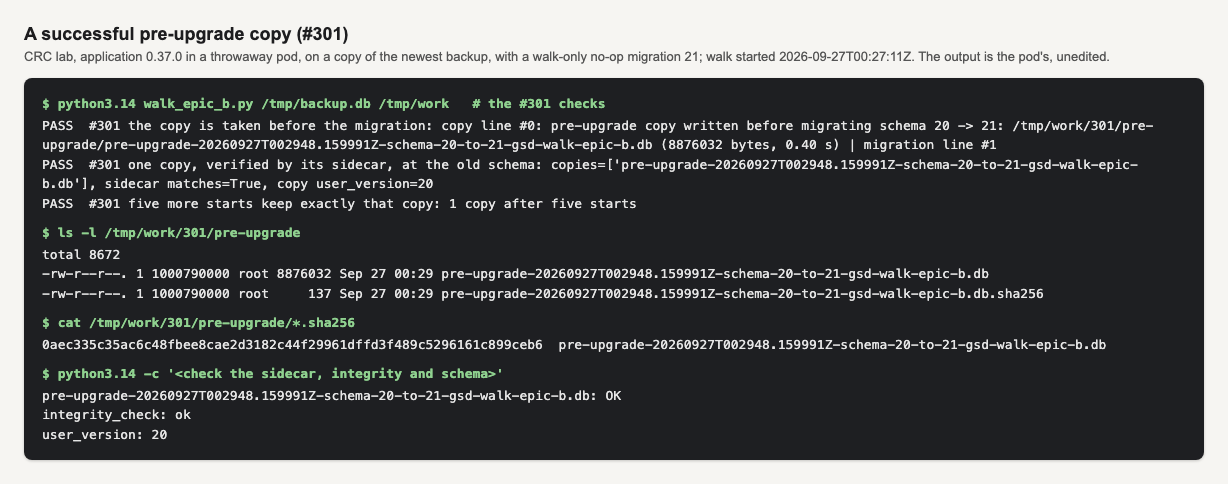
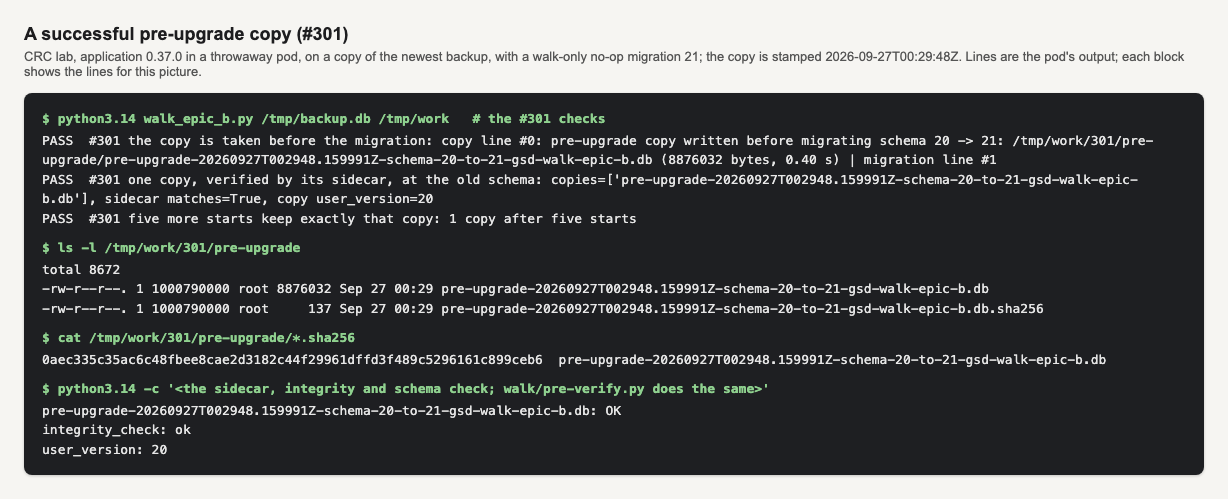
reports + runbook: the reviews of #412 — the deploy was Argo's auto-sync, not the gate; every fact recorded as a file; the runbook labels which pod each picture is, gives working commands and the tested restore recipe; the walk script fails cleanly

Changed region(s): [[0.0, 0.031, 0.9902, 0.9298]]

diff --git a/reports/2026-09-26_epic-b-release/walk/render2.py b/reports/2026-09-26_epic-b-release/walk/render2.py
@@ -6,11 +6,11 @@ walk = rd("walk.out")
 pick = lambda *keys: "\n".join(l for l in walk.splitlines() if l.startswith(("PASS", "FAIL")) and any(k in l for k in keys))
 render(str(E / "backup-pre-upgrade-copy-success.png"), "A successful pre-upgrade copy (#301)",
        "CRC lab, application 0.37.0 in a throwaway pod, on a copy of the newest backup, with a walk-only no-op migration 21; "
-       f"walk started {rd('walk-started.txt').strip()}. The output is the pod's, unedited.",
+       "the copy is stamped 2026-09-27T00:29:48Z. Lines are the pod's output; each block shows the lines for this picture.",
        [("python3.14 walk_epic_b.py /tmp/backup.db /tmp/work   # the #301 checks", pick("#301")),
         ("ls -l /tmp/work/301/pre-upgrade", rd("pre-ls.txt")),
         ("cat /tmp/work/301/pre-upgrade/*.sha256", rd("pre-sidecar.txt")),
-        ("python3.14 -c '<check the sidecar, integrity and schema>'", rd("pre-verify.txt"))])
+        ("python3.14 -c '<the sidecar, integrity and schema check; walk/pre-verify.py does the same>'", rd("pre-verify.txt"))])
 render(str(E / "backup-restore-check-success.png"), "A backup proven restorable (R1–R5)",
        "CRC lab, application 0.37.0 in a throwaway pod, on byte-verified copies (sha256 matched) of "
        f"{pathlib.Path(rd('backup-name.txt').strip()).name} and of #301's copy. The live database was never touched.",

diff --git a/reports/2026-09-26_epic-b-release/walk/walk_epic_b.py b/reports/2026-09-26_epic-b-release/walk/walk_epic_b.py
@@ -118,6 +118,9 @@ def restorable(label: str, db: Path) -> None:
     group = c.execute(f"SELECT cluster_id, group_name, COUNT(*) n FROM membership_event WHERE cluster_id IN ({marks}) "
                       "GROUP BY 1, 2 HAVING n BETWEEN 2 AND 100 ORDER BY n DESC LIMIT 1", sorted(clusters)).fetchone()
     c.close()
+    if group is None:
+        check(f"{label} R4 the app serves it", False, f"no group on the {len(clusters)} enabled clusters has 2-100 stored changes")
+        return
     configured = [ClusterConfig(i, u, token_env="WALK_UNUSED") for i, u in enabled]
     with TestClient(build_app(Settings(db_path=str(db), clusters=configured, oauth_proxy_enabled=False),
                               run_poller=False)) as client:

diff --git a/reports/2026-09-26_epic-b-release/walk/pre-verify.py b/reports/2026-09-26_epic-b-release/walk/pre-verify.py
@@ -1,0 +1,12 @@
+"""Check each pre-upgrade copy in a directory against its .sha256 sidecar, then its integrity and schema.
+
+    python3.14 pre-verify.py /data/pre-upgrade        (or a walk's /tmp/work/301/pre-upgrade)
+"""
+import hashlib, pathlib, sqlite3, sys
+for side in sorted(pathlib.Path(sys.argv[1]).glob("*.db.sha256")):
+    want, name = side.read_text().split()
+    db = side.with_name(name)
+    print(name + ":", "OK" if hashlib.sha256(db.read_bytes()).hexdigest() == want else "FAILED")
+    c = sqlite3.connect(f"file:{db}?immutable=1", uri=True)
+    print("integrity_check:", c.execute("PRAGMA integrity_check").fetchone()[0])
+    print("user_version:", c.execute("PRAGMA user_version").fetchone()[0])

diff --git a/reports/2026-09-26_epic-b-release/README.md b/reports/2026-09-26_epic-b-release/README.md
@@ -1,44 +1,68 @@
-# Epic B (#382) released and deployed — application 0.37.0, chart 0.58.5, 2026-09-27
+# Epic B (#382) released and deployed — application 0.37.0, chart 0.58.5 (2026-09-27 UTC)
 
-## The release and the deploy gate
+## The release, the image gate, and what actually deployed it
 
 - **Release PR #409:** merge `b087c78f80b44be68bb40a0c0b44c71b53b069e7`, cut with `prepare-release.py --app 0.37.0`.
-- **The gate before the deploy** (`walk/gate.txt`):
-  - `publish.yml` succeeded (run 36281230543).
-  - quay's `:0.37.0` resolves to the same digest as the immutable `:0.37.0-b087c78f80` for both images: dashboard
-    `sha256:62e231178a3a…`, report `sha256:4715d4be2331…`.
-  - `helm.yaml` succeeded, and chart 0.58.5 was published at 00:10:01Z.
-  - Why the gate exists: before this release, `:0.37.0` was a stale chart-version label on an application 0.24.0
-    image (#410).
-- **The deploy:** `release-crc.sh --argocd main`. Argo CD was Synced/Healthy; the deployment ran chart
-  `group-sync-dashboard-0.58.5` with image `…:0.37.0`, and `/api/version` in the pod read `"version":"0.37.0",
-  "commit":"b087c78f80"`.
-  - The script exited 1 because #411 merged during the sync. Argo followed `main` to `cbe828b`, which contains
-    `b087c78`, and the script's wait for the exact `b087c78` revision timed out (`walk/release-tail.log`).
-  - #411 changes `fleetlogin.py`, a spec and the changelog. None of those is in the published 0.37.0 image.
+- **The image gate** (`walk/gate.txt`, `walk/workflow-times.txt`):
+  - `publish.yml` (run 36281230543) ran 00:01:34 → 00:04:19Z.
+  - quay's `:0.37.0` then equals the immutable `:0.37.0-b087c78f80` for both images: dashboard `sha256:62e231178a3a…`,
+    report `sha256:4715d4be2331…`.
+  - `helm.yaml` ran 00:01:34 → 00:10:12Z and published chart 0.58.5.
+- **The deploy was Argo CD's own auto-sync, not the script** (`walk/argo-history.txt`, `walk/replicasets.txt`,
+  `walk/deploy.txt`):
+  - The Application has `syncPolicy.automated: {prune: true, selfHeal: true}` and `targetRevision: main`.
+  - It deployed `b087c78` at 00:05:54–00:06:11Z, and the 0.37.0 ReplicaSets were created at 00:06:12Z. That was
+    95 s after `publish.yml` finished, and **before the gate above was checked**.
+  - `release-crc.sh --argocd main`, started at 00:11:30Z, found the release already deployed. Every line of
+    `walk/release-tail.log` reads "status is for the previous spec". It exited 1 because its wait for the exact
+    `b087c78` revision timed out: #411 merged at 00:20:14Z (`cbe828b`, which contains `b087c78`), and Argo followed
+    `main`.
+  - **The images were ready in time by luck of timing, not by design.** Before this release, quay's `:0.37.0` was a
+    stale label on an application 0.24.0 image. The measured race and the fix are #410.
+- **What runs** (`walk/api-version.txt`, `walk/deploy.txt`): chart `group-sync-dashboard-0.58.5`, image `…:0.37.0` at
+  `sha256:62e231178a3a…`, and `/api/version` reads `"version":"0.37.0","commit":"b087c78f80"`.
 - **The PVC UIDs** are the same before the deploy and after the walk (`walk/pvc-before.txt`, `walk/pvc-after-walk.txt`).
 
 ## The checks: 13 of 13 passed (`walk/walk.out`)
 
-The released image, pinned by digest, ran in a throwaway pod (`gsd-walk-epic-b`, deleted afterwards) with no volume.
-It ran against a copy of the newest six-hourly backup, `gsd-20260927T000637.303159Z.db`; the copy's sha256 matched
-the source's (`b8c87250…`). The script is `walk/walk_epic_b.py`.
+The released image, pinned by digest, ran in a throwaway pod with no volume.
+- It ran against a copy of the newest six-hourly backup, `gsd-20260927T000637.303159Z.db`, whose sha256 matched the
+  source's (`walk/backup-sha.txt`).
+- The copy is stamped 00:29:48Z. The first attempt at the pod failed, because the image has no `sleep`; it was
+  recreated with a Python wait.
+- The script is `walk/walk_epic_b.py`. The recipe in `docs/RUNBOOK_backup_restore.md` was then run verbatim on the
+  lab and also gave 13 of 13.
 
 | Check | Result |
 |---|---|
-| #305: a copy set to schema 21 | refused: "database schema 21 is newer than this dashboard understands (20) …"; the file is byte-identical |
-| #301: a copy opened with a walk-only no-op migration 21 | the copy line comes before the migration line; one copy (8,876,032 bytes, 0.40 s), its sidecar matches, `user_version` 20; five more starts keep exactly that copy |
-| R1–R4 on the backup | `integrity_check` ok at schema 20; opened with no migration and no copy; the five tables' counts equal before and after; `/healthz` 200, `/api/clusters` serves the 6 enabled clusters, and a group serves its 8 stored changes |
-| R5 on #301's copy | the same four checks pass |
-| R6 the live side | the walk pod had no volume; the live `gsd.db-wal` mtime moved from 1790469037 to 1790469096 across a poll (`walk/live-wal-*.txt`), so the dashboard kept writing; `/data` holds no `pre-upgrade/`, which is right for a database already at the release's schema |
+| #305: a copy set to schema 21 | Refused: "database schema 21 is newer than this dashboard understands (20) …". The file is byte-identical. |
+| #301: a copy opened with a walk-only no-op migration 21 | The copy line comes before the migration line: one copy, 8,876,032 bytes, in 0.40 s. Its sidecar matches, and its `user_version` is 20. |
+| R1–R4 on the backup | `integrity_check` is ok at schema 20. It opens with no migration and no copy. The five tables' counts are equal before and after. `/healthz` returns 200, and a group serves all 8 of its stored changes. |
+| R5 on #301's copy | The same four checks pass. |
 
-The operator chose to prove #301 on a copy rather than by a live upgrade and restore (#301's amended Definition of
-Done). The live rollback stays with #302.
+**What these checks do not prove** (OB1-lite's review):
+- **`/api/clusters` equal to the enabled rows holds by construction.** The configured set is read from the copy, and
+  `is_served` means configured and enabled. The group check is the real serving test: it reads the stored rows through
+  the endpoint, `limit=100`.
+- **"Five more starts keep that copy" does not exercise the not-taken-again guard.** After the first start the copy is
+  at schema 21, so no copy is attempted. That guard is covered by `tests/test_pre_upgrade_copy.py`.
+- **Not tested:**
+  - the §4 restore onto `/data` (permissions, removing `-wal` and `-shm`);
+  - the chart's real configuration (tokens, the oauth proxy, view restrictions);
+  - the poller resuming after a restore.
+  The live rollback is #302.
+- **The live side is untouched by construction, not by measurement.** The walk pod mounted no volume, and the script
+  writes only under its work directory.
+  - The WAL readings in `walk/live-wal-*.txt` were taken after the walk pod was deleted. They show that the live
+    dashboard kept writing, not that the walk left it alone.
+  - `/data` has no `pre-upgrade/` (`walk/data-ls.txt`), which is right for a database already at the release's
+    schema.
+
+The operator chose to prove #301 on a copy, not by a live upgrade and restore (#301's amended Definition of Done).
 
 ## The three screenshots
 
-They are in `docs/RUNBOOK_backup_restore.md` ("What a successful backup looks like") and under `docs/screenshots/`.
-Each is rendered from real output:
-
+They are in `docs/RUNBOOK_backup_restore.md`, in "What a successful backup looks like", with the commands for each,
+and under `docs/screenshots/`. Each picture shows real output; lines not relevant to it are left out.
 - **The six-hourly backup:** captured at 23:02:25Z (`capture/`, `capture/render.py`).
-- **The pre-upgrade copy and the restore check:** from this walk (`walk/render2.py`).
+- **The pre-upgrade copy and the restore check:** from this walk (`walk/render2.py`, `walk/pre-verify.py`).

diff --git a/docs/RUNBOOK_backup_restore.md b/docs/RUNBOOK_backup_restore.md
@@ -23,12 +23,16 @@ NS=group-sync; REL=group-sync-dashboard
 
 ## What a successful backup looks like
 
-Three pictures from the CRC lab (`reports/2026-09-26_epic-b-release/`). Each is the pod's own output, unedited,
-rendered from the commands shown in it. If yours looks like these, the copy is good.
+Three pictures from the CRC lab (`reports/2026-09-26_epic-b-release/`). The first is the live dashboard pod. The second
+and third come from a throwaway pod that worked on *copies* of a backup, not from the dashboard pod. Each shows the
+pod's own output. The commands are below each picture, and lines not relevant to the picture are left out. `grep` and
+`tail` run on your workstation; the pod has neither.
 
-**The six-hourly backup.** The log line names the file and how many are kept. The listing shows that many copies.
-The §1 check on the newest one says `integrity_check: ok` and the running app's schema. The metrics show no failures,
-and the last success is the newest file's time:
+**The six-hourly backup (the live pod).** The log line names the file and how many are kept, and the listing shows
+that many copies. The §1 check on the newest copy says `integrity_check: ok`, with a `user_version` equal to the
+running app's. Failures are zero, and the last-success metric is the newest file's time. In this capture the metric
+`1.7904500667085032e+09` is 2026-09-26T19:14:26.7Z, the same second as the file `gsd-20260926T191426.213034Z.db`. It
+was taken at 23:02:25Z on application 0.36.0.
 
 ![A successful six-hourly backup: the log line, four copies, the §1 check ok at schema 20, zero failures](screenshots/backup-six-hourly-success.png)
 
@@ -38,24 +42,50 @@ oc exec -n $NS deploy/$REL -c dashboard -- ls -l /data/backup
 oc exec -n $NS deploy/$REL -c dashboard -- python3.14 -c 'import urllib.request; print(urllib.request.urlopen("http://127.0.0.1:8080/metrics").read().decode())' | grep '^gsd_backup'
 ```
 
-(`tail` and `grep` run on your workstation; the pod has neither. The §1 check is in §1.)
+The picture's `<the §1 check>` block is §1's Python snippet, run on the newest file.
 
-**The pre-upgrade copy (§6).** When a new image finds an older database, the first log line is
-`pre-upgrade copy written before migrating schema <from> -> <to>: <file> (<bytes> bytes, <seconds> s)`. The
-`schema migration <to> applied` line comes after it. `pre-upgrade/` holds the copy and its `.sha256`. The copy
-matches its sidecar, passes `integrity_check`, and keeps the old `user_version`:
+**The pre-upgrade copy (§6).** When a new image finds an older database, its startup log has
+`pre-upgrade copy written before migrating schema <from> -> <to>: <file> (<bytes> bytes, <seconds> s)` before the
+first `schema migration <to> applied` line. `pre-upgrade/` holds the copy and its `.sha256`. The copy matches its
+sidecar, passes `integrity_check`, and keeps the old `user_version`:
 
 ![A successful pre-upgrade copy: taken before the migration, one copy with its sidecar, sidecar OK, integrity ok, schema 20](screenshots/backup-pre-upgrade-copy-success.png)
 
-**A backup proven restorable.** This check runs on copies in a throwaway pod, never on the live file. The
-released app opens the copy with no migration and no new copy, the row counts are the same before and after, and
-the app serves it with polling off:
+```sh
+oc exec -n $NS deploy/$REL -c dashboard -- ls -l /data/pre-upgrade
+oc exec -n $NS deploy/$REL -c dashboard -- sh -c 'cat /data/pre-upgrade/*.sha256'
+oc exec -n $NS deploy/$REL -c dashboard -- python3.14 -c "$(cat reports/2026-09-26_epic-b-release/walk/pre-verify.py)" /data/pre-upgrade
+```
 
-![A backup proven restorable: R1 to R4 on the six-hourly backup and on the pre-upgrade copy, 13 of 13 checks passed](screenshots/backup-restore-check-success.png)
+The picture was taken on a copy in a throwaway pod, with a test-only migration 21, so its paths are under
+`/tmp/work/301/`. On the dashboard they are under `/data/pre-upgrade/`, or `/data/<pod-name>/pre-upgrade/` with more
+than one replica. A database already at the image's schema has no `pre-upgrade/` directory, and that is correct.
 
-The script is `reports/2026-09-26_epic-b-release/walk/walk_epic_b.py`
-(`python3.14 walk_epic_b.py <copy.db> <work-dir>`). Restoring onto the live database is §4, and the scripted
-rollback is #302.
+**A backup proven restorable.** On copies in a throwaway pod, never on the live file:
+- the released app opens the copy with no migration and no new copy;
+- the row counts are the same before and after the open;
+- with polling off, the app serves the copy's groups and their stored changes.
+
+The picture shows these checks, R1 to R4, for the six-hourly backup and for the pre-upgrade copy. Its total, 13, also
+counts the #305 and #301 checks, which are out of frame:
+
+![A backup proven restorable: R1 to R4 on the six-hourly backup and on the pre-upgrade copy; 13 of 13 checks, five of them out of frame](screenshots/backup-restore-check-success.png)
+
+The recipe, as run on the lab. The pod mounts no volume, and the image has no `sleep`, so the pod waits in Python:
+
+```sh
+IMG=$(oc get deploy -n $NS $REL -o jsonpath='{.spec.template.spec.containers[0].image}')
+oc run gsd-restore-check -n $NS --image=$IMG --restart=Never --overrides='{"spec":{"securityContext":{"runAsNonRoot":true,"seccompProfile":{"type":"RuntimeDefault"}},"containers":[{"name":"gsd-restore-check","image":"'$IMG'","command":["python3.14","-c","import time; time.sleep(1800)"],"securityContext":{"allowPrivilegeEscalation":false,"capabilities":{"drop":["ALL"]}}}]}}'
+oc wait -n $NS pod/gsd-restore-check --for=condition=Ready --timeout=120s
+B=$(oc exec -n $NS deploy/$REL -c dashboard -- python3.14 -c 'import glob; print(sorted(glob.glob("/data/backup/gsd-*.db"))[-1])')
+oc exec -n $NS deploy/$REL -c dashboard -- cat "$B" | oc exec -i -n $NS gsd-restore-check -- sh -c 'cat > /tmp/backup.db'
+oc exec -i -n $NS gsd-restore-check -- sh -c 'cat > /tmp/walk_epic_b.py' < reports/2026-09-26_epic-b-release/walk/walk_epic_b.py
+oc exec -n $NS gsd-restore-check -- python3.14 -W ignore /tmp/walk_epic_b.py /tmp/backup.db /tmp/work
+oc delete pod gsd-restore-check -n $NS
+```
+
+The script prints PASS or FAIL for each check, and exits 1 on any failure. Restoring onto the live database is §4, and
+the scripted rollback is #302.
 
 ## 1. Verify a copy without restoring it
 

diff --git a/reports/README.md b/reports/README.md
@@ -43,7 +43,7 @@ folder here says what it did on a given day, on a named cluster, at a named comm
 | `2026-09-25_remove-oauth-debug-321/` | CRC (OpenShift 4.22.7), `dashboard` | 0.36.0 (`1178e03eb4`) / 0.58.0 | #321: no `authLogLevel` Job, Role or binding and no pod-log Role left; OAuth at `Normal`; a real `oc login` as `developer` stored 23 s later as `success`, source `audit-log`, kind `cli` |
 | `2026-09-26_gitops-examples-389/` | CRC (OpenShift 4.22.7), `dashboard` | 0.36.0 (`667b3c4a62`) / 0.58.0 | #389: the committed onboarding example, applied with a throwaway name, generated its Secret 286 s after the apply (one fleet login, session revoked) and was pruned 287 s after the delete; PVC UIDs unchanged |
 | `2026-09-26_epic-a-release/` | CRC (OpenShift 4.22.7), `dashboard` | 0.36.0 (`667b3c4a62`) / 0.58.3 | Epic A (#381) released and deployed with `--argocd main` (Argo at `2b2c744`), PVCs identical; the GitOps onboarding example added and removed a cluster (257 s, 272 s) with the Cluster Configurations tab captured each time; the docs index as GitHub renders it; the finding #404 |
-| `2026-09-26_epic-b-release/` | CRC (OpenShift 4.22.7), `dashboard` | 0.37.0 (`b087c78f80`) / 0.58.5 | Epic B (#382) released, gated on quay's digests (#410) and deployed with `--argocd main`, PVCs identical; 13 of 13 checks on copies in a throwaway pod: #305's refusal, #301's pre-upgrade copy, restore checks R1–R5, and the live side untouched |
+| `2026-09-26_epic-b-release/` | CRC (OpenShift 4.22.7), `dashboard` | 0.37.0 (`b087c78f80`) / 0.58.5 | Epic B (#382) released and deployed by Argo CD's auto-sync on merge, 95 s after the images published (the race is #410), PVCs identical; 13 of 13 checks on copies in a throwaway pod: #305's refusal, #301's pre-upgrade copy, restore checks R1–R5, and the live side untouched |
 
 Screenshots and generated documents are committed as they were captured; they are not regenerated by
 CI and they age with the product — the date in the folder name is the whole point.
